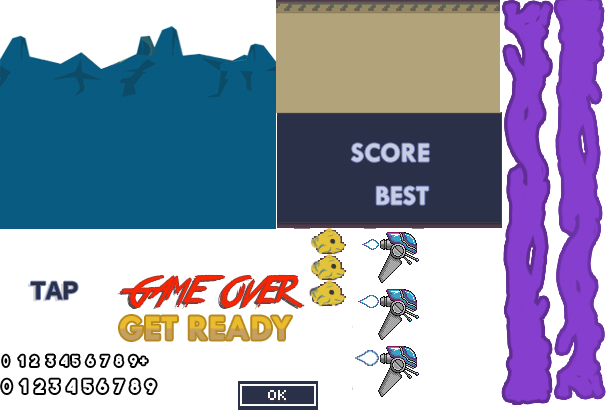
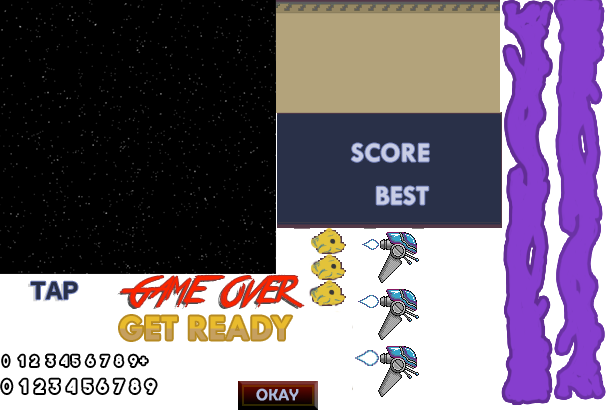
Sprites updated

diff --git a/src/js/flappygame.js b/src/js/flappygame.js
@@ -113,19 +113,20 @@ function onpress(evt) {
             currentState = states.Game;
             fish.jump();
             score ++;
-            console.log(score);
             break;
 
         case states.Game: // The game is in progress. Update fish velocity.
             fish.jump();
             score ++;
-            console.log(score);
             break;
 
         case states.Score:
             // Change from score to splash state if event within okButton bounding box
             // Get event position
             var mouseX = evt.offsetX, mouseY = evt.offsetY;
+			total = score;
+			score = 0;
+            console.log(total);
 
             if (mouseX == null || mouseY == null) {
                 mouseX = evt.touches[0].clientX;
@@ -139,8 +140,6 @@ function onpress(evt) {
                 //console.log('click');
                 //corals.reset();
                 currentState = states.Splash;
-                total = score;
-                console.log(total);
             }
             break;
     }
@@ -230,8 +229,10 @@ function render() {
     renderingContext.fillRect(0, 0, width, height);
 
     // Draw background sprites
-    backgroundSprite.draw(renderingContext, 0, height - backgroundSprite.height);
-    backgroundSprite.draw(renderingContext, backgroundSprite.width, height - backgroundSprite.height);
+    backgroundSprite.draw(renderingContext, 0, 0);
+    backgroundSprite.draw(renderingContext, 0, 200);
+	backgroundSprite.draw(renderingContext, 120, 0);
+	backgroundSprite.draw(renderingContext, 120, 200);
 
     fish.draw(renderingContext);
 

diff --git a/src/js/sprite.js b/src/js/sprite.js
@@ -28,7 +28,7 @@ function initSprites(img) {
 
     foregroundSprite = new Sprite(img, 138, 0, 112, 56);
 
-    backgroundSprite = new Sprite(img, 0, 0, 138, 114);
+    backgroundSprite = new Sprite(img, 0, 0, 138, 134);
     backgroundSprite.color = "#8BE4FD";
 
     okButtonSprite = new Sprite(img, 119, 191, 40, 14);
